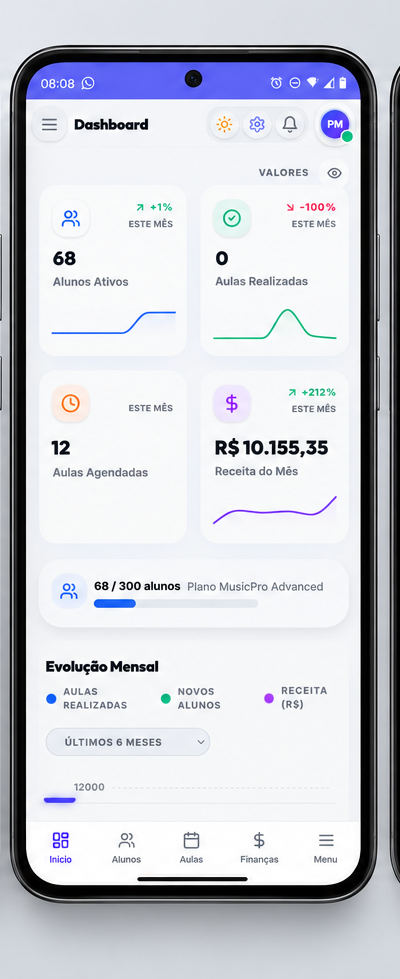
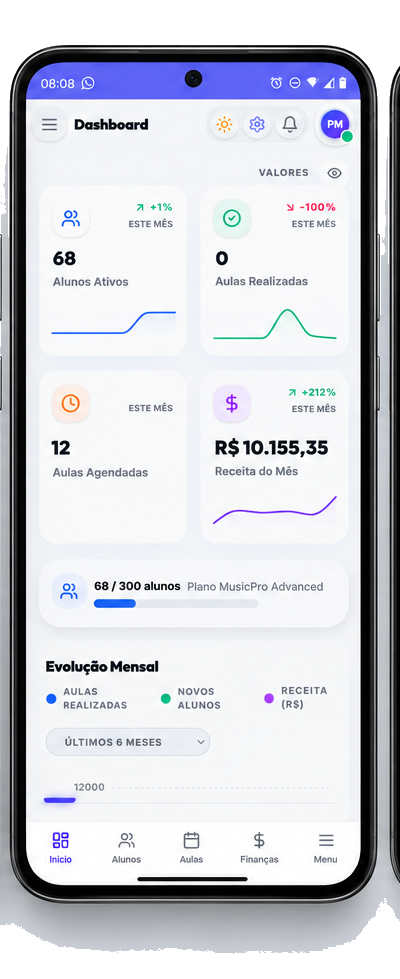
fix: fundo cinza dos mockups de celular removido (transparente) + celular maior no showcase

Changed region(s): [[0.0, 0.0, 1.0, 0.2758], [0.0, 0.9193, 1.0, 1.0]]

diff --git a/src/components/sections/SistemaShowcase.tsx b/src/components/sections/SistemaShowcase.tsx
@@ -76,7 +76,7 @@ function ImagemCompleta({
         height={1707}
         quality={90}
         sizes={sizes}
-        className={cn("h-64 w-auto max-w-none sm:h-80 lg:h-96", className)}
+        className={cn("h-72 w-auto max-w-none sm:h-96 lg:h-[29rem]", className)}
       />
     );
   }
@@ -165,7 +165,7 @@ export function SistemaShowcase({ itens }: { itens: TelaSistema[] }) {
       <ImagemCompleta
         src={ativo.desktop}
         alt={`Funcionalidade: ${ativo.titulo}`}
-        sizes="(max-width: 640px) 92vw, (max-width: 1024px) 72vw, 640px"
+        sizes="(max-width: 640px) 92vw, (max-width: 1024px) 72vw, 700px"
         formato="desktop"
       />
     ) : (
